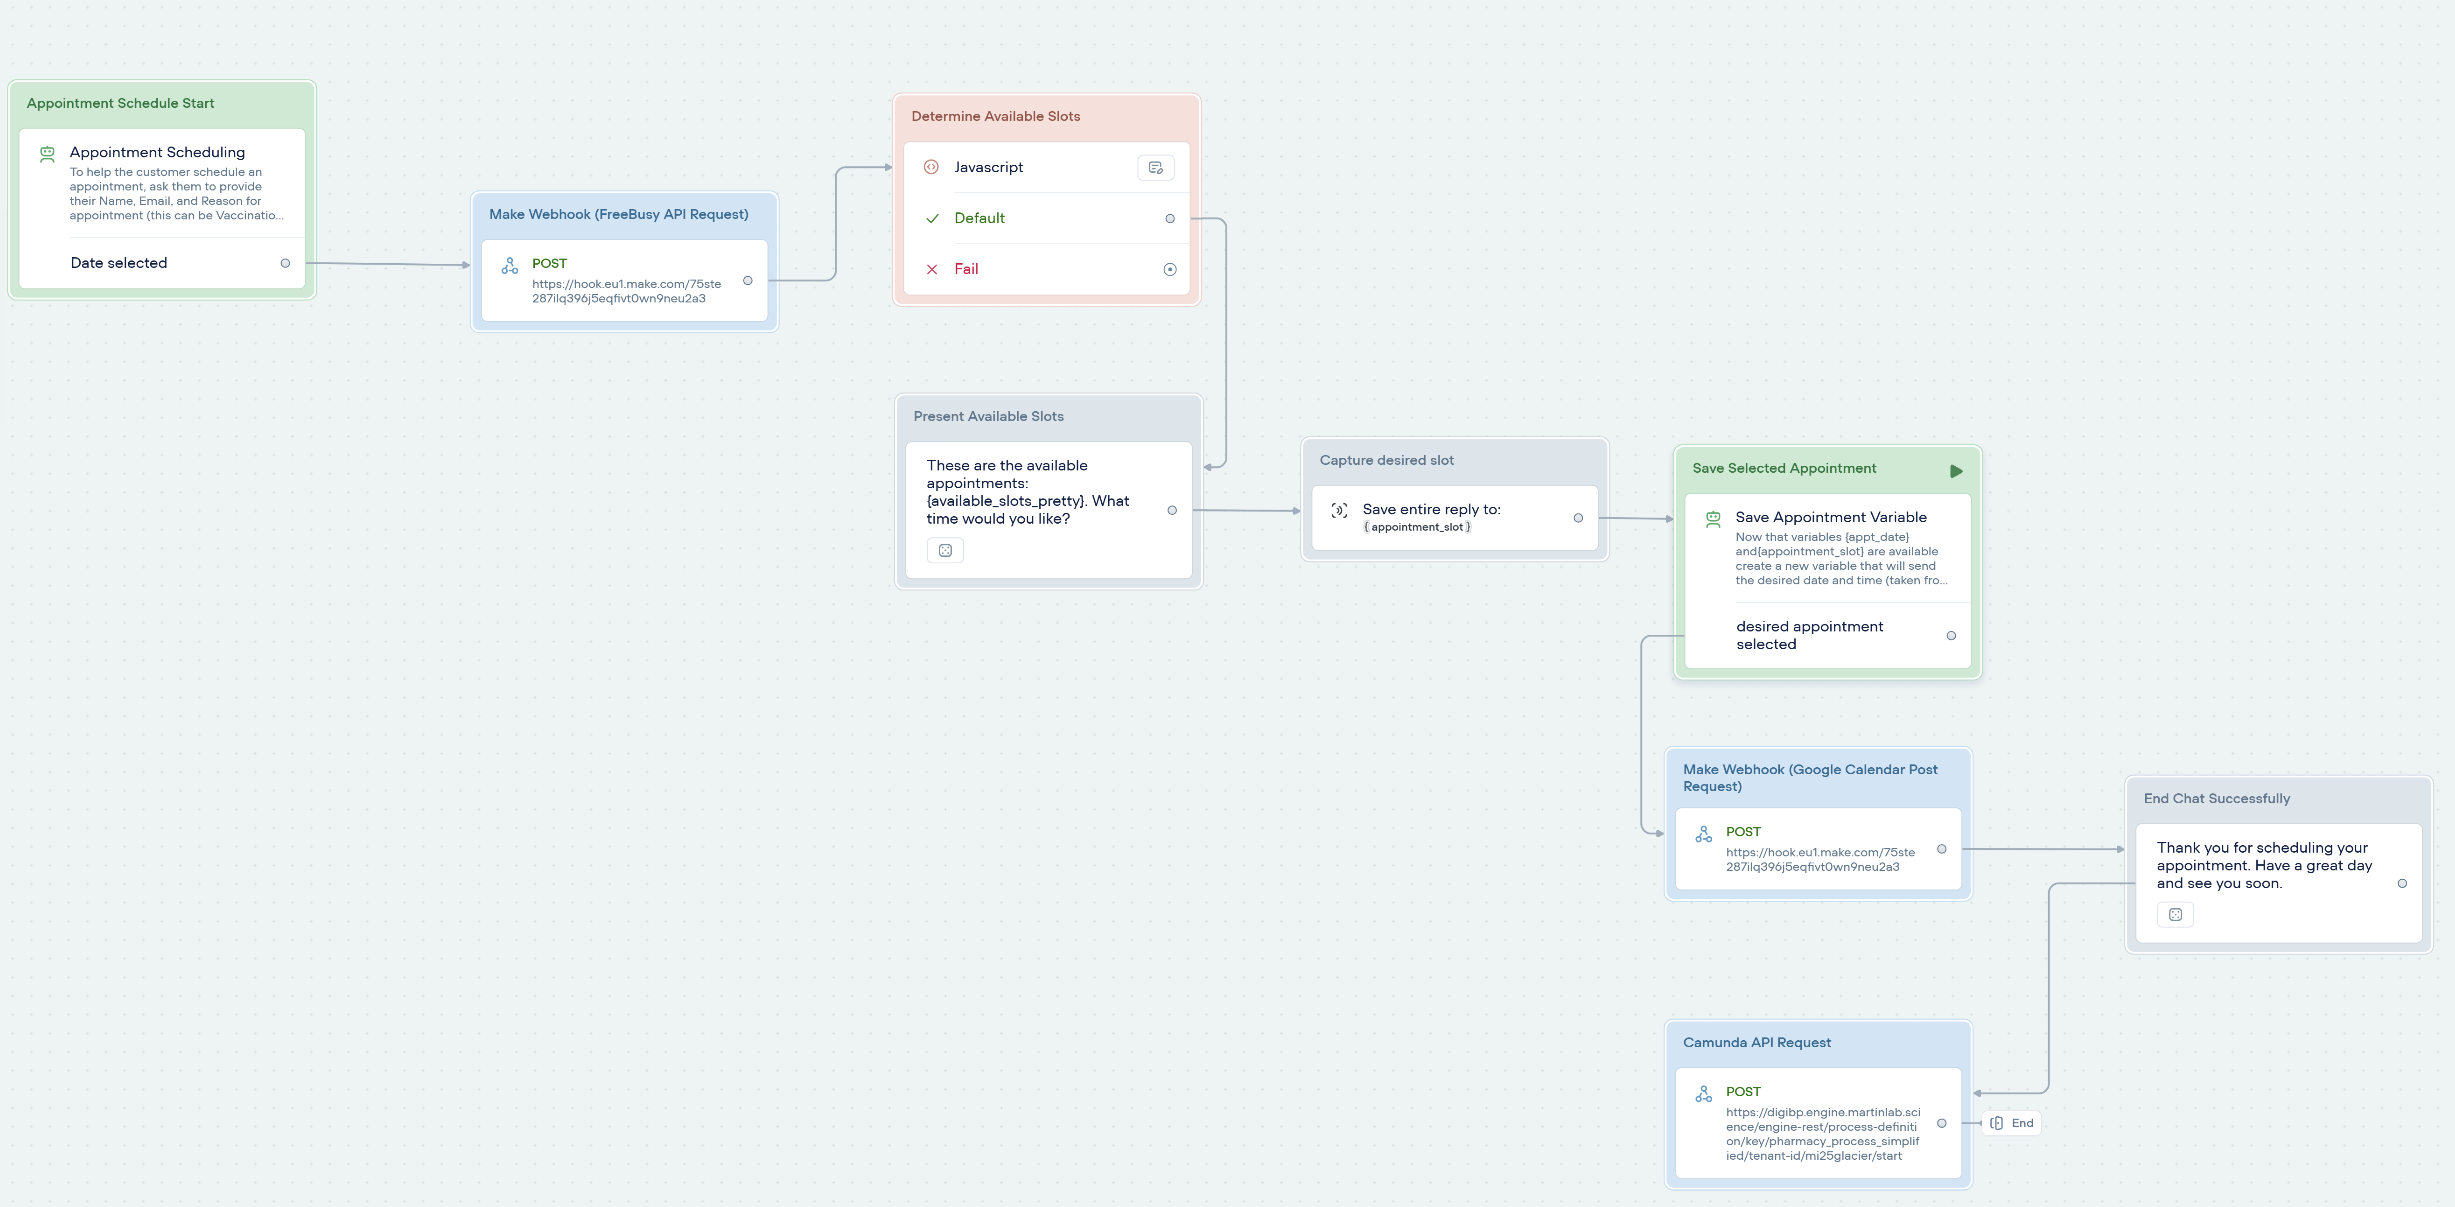
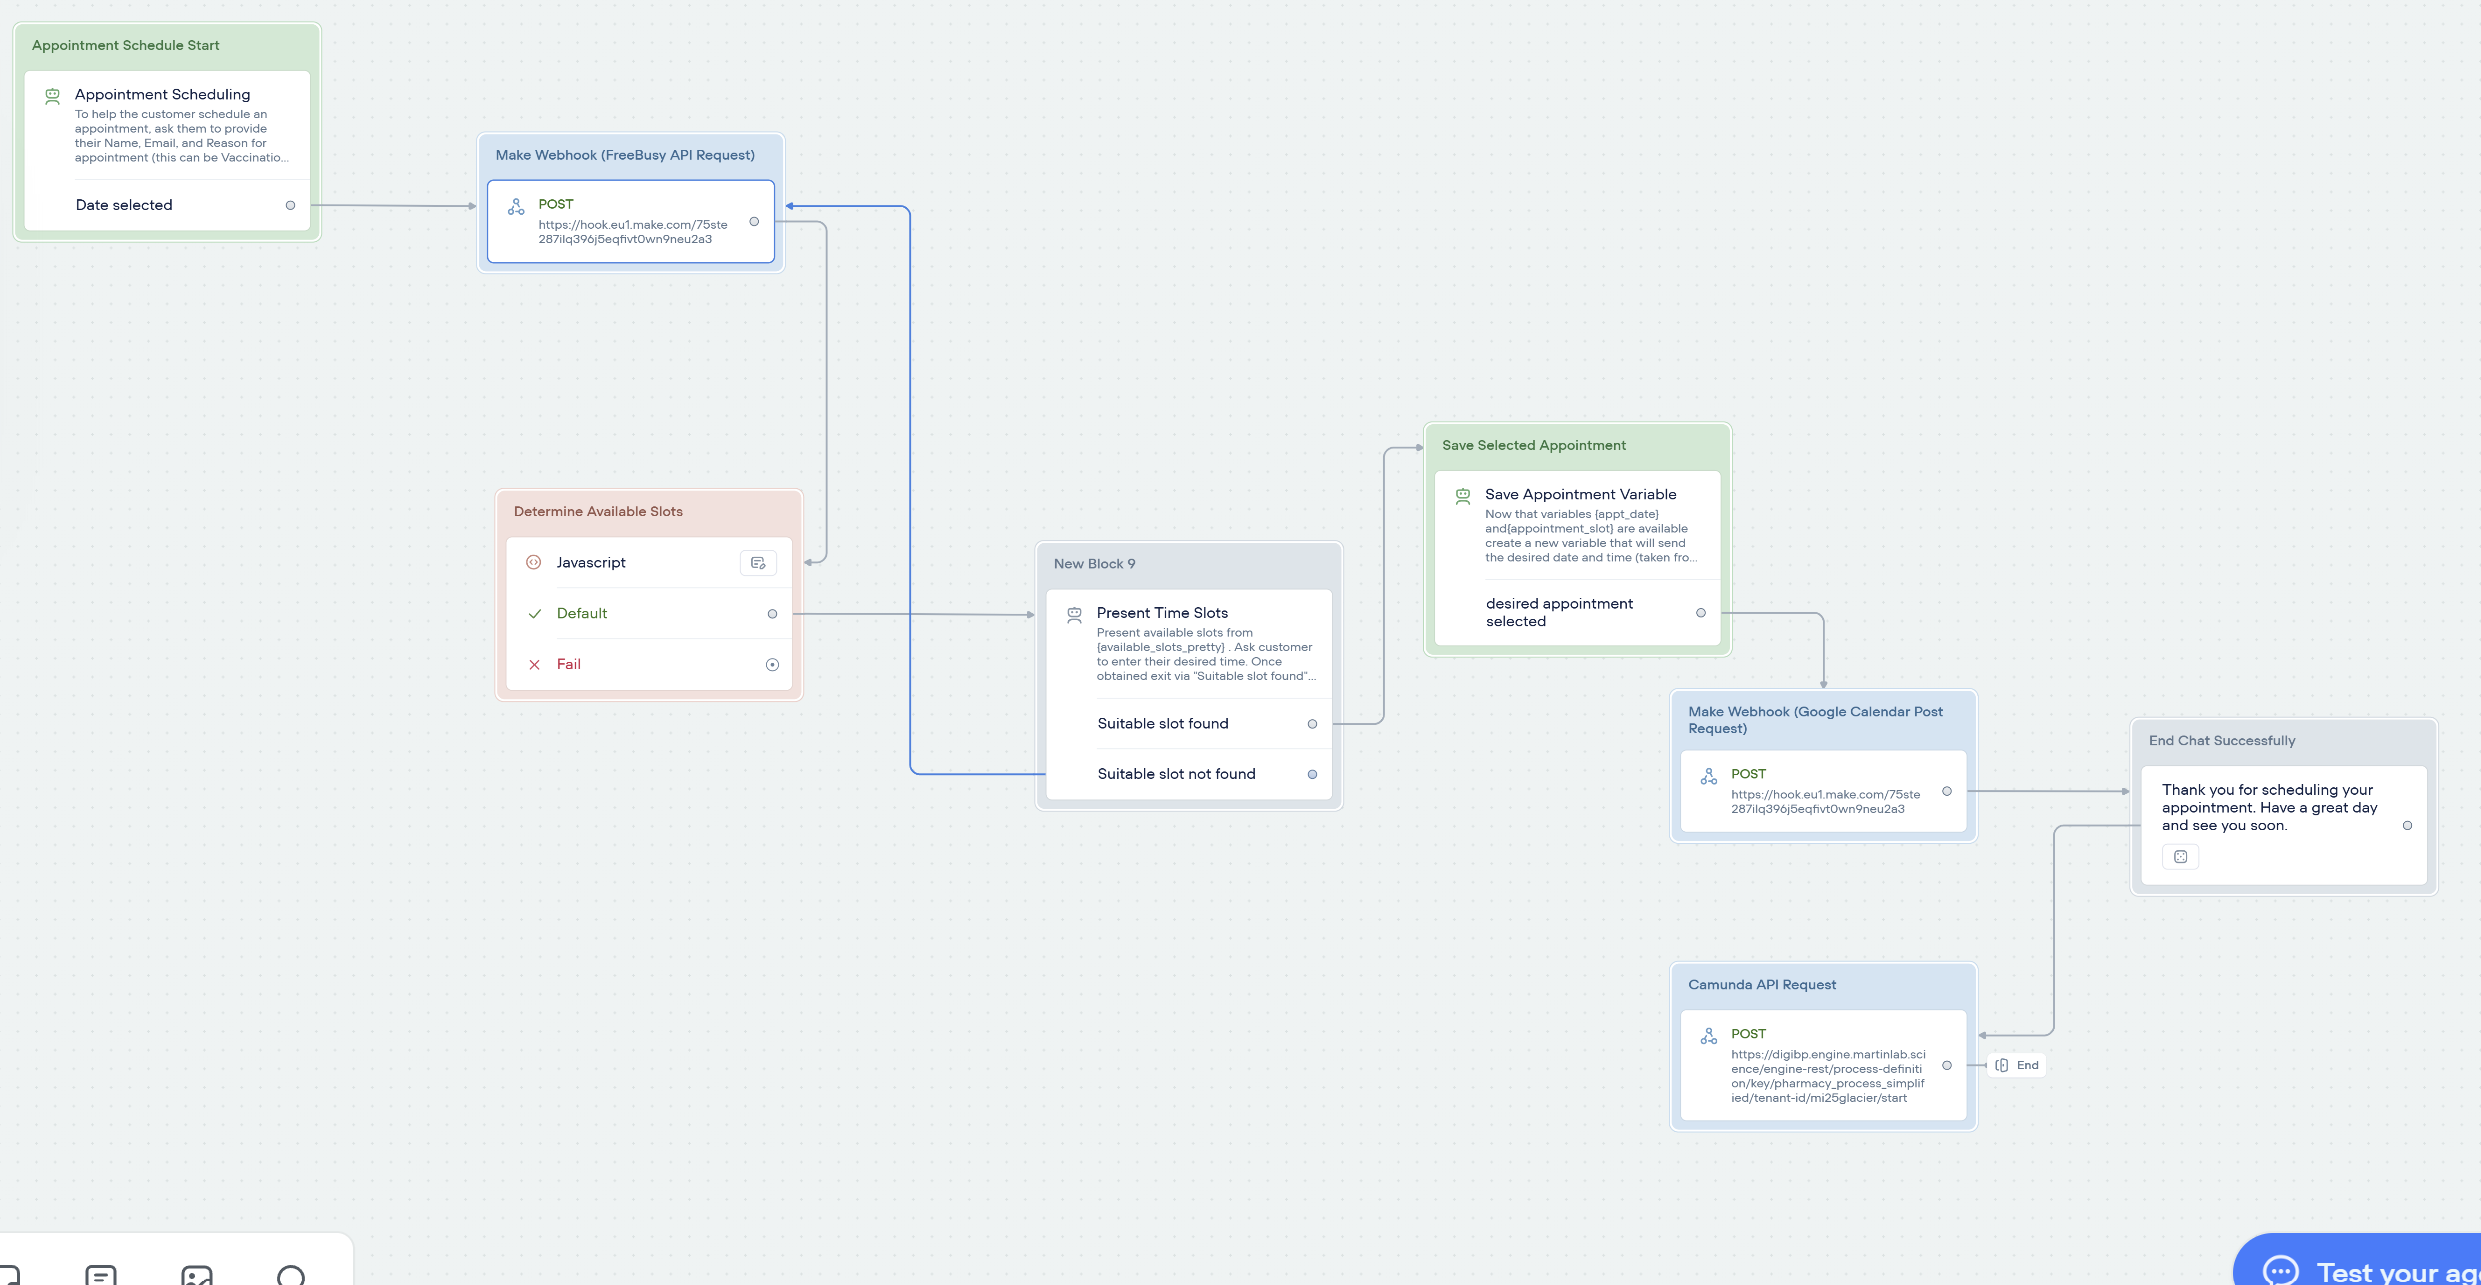
readMe update

diff --git a/README.md b/README.md
@@ -19,7 +19,7 @@
 
 ## Usage
 
-Need to add usage instructions here
+** Need to add usage instructions here (e.g., start server, link to chatbot frontend page, camunda)
 
 ## Techonologies
 - Voiceflow
@@ -75,11 +75,34 @@ The technician administers the vaccination. Once the vaccination is provided, th
 The technician performs the requested screening service. After the completion of the screening, the process ends.   
 
 ## To-Be Process
-**** Add the image of the holistic to-be process (needs updating). Explain that it is for visual purposes and is not executable. Maybe move the descriptions below to the chatbot section further down.
+End-to-End Process View:
 
-### Patient/Chatbot  
+![to-be process end-to-end](images/documentation_process_model.png)
 
-The process starts when a patient initiates a chatbot interaction. The chatbot then routes the conversation based on the consultation type into one of three flows: prescription order, symptom evaluation, or appointment scheduling.  
+**** Explain that bpmn process model above is not the executable workflow model implemented in Camunda. It is for visual purposes to highlight the entire process which spans multiple systems (not all of which are require connection to Camunda). Maybe add short description for each of the sequence flows.
+
+### Camunda Workflow
+
+![to-be process](images/symptom_eval_process_simplified_v2.png)
+
+The Camunda workflow starts when the Pharmacy Digital System (Camunda) receives the request from the patient from the chatbot. Based on the request type, the process continues with one of three flows: Prescription medication ordering, OTC order, or appointment scheduling.
+
+#### Prescription medication ordering   
+A prescription uploaded by the patient via the chatbot is validated by the pharmacist. If the prescription is rejected, the patient is notified by the Pharmacy Digital System and the process ends. If it is approved, the pharmacy technician prepares the medication. Once preparation is complete, the patient is notified that the medication is ready for pickup. The pharmacist then provides patient counselling. After payment is collected or insurance information is confirmed, the medication is dispensed and the process ends.
+
+#### OTC order  
+The patient requests over-the-counter (OTC) medication via the chatbot. The pharmacy technician confirms the OTC order and prepares the medication. When preparation is complete, the patient is notified that the medication is ready for pickup. The pharmacist provides patient counselling. After payment is collected or insurance information is confirmed, the medication is dispensed and the process ends.
+
+#### Appointment scheduling  
+The patient requests an appointment via the chatbot. The pharmacy technician confirms the appointment and the service is performed. Afterwards, payment is collected or insurance information is confirmed, and the process ends.
+
+### ChatBot
+
+![Chatbot process](images/chatbot_process2.png)
+
+#### Conversation Start 
+
+The process starts when a patient initiates a chatbot interaction. The chatbot then routes the conversation based on the request type into one of three flows: prescription order, symptom evaluation, or appointment scheduling.  
 
 #### Prescription order
 
@@ -93,32 +116,13 @@ The chatbot asks the patient for a symptom description and then assesses treatme
 
 The chatbot collects the patient/appointment details and then asks for the desired date. The system then checks available appointments (via Make Webhook + Google FreeBusy API). If a suitable appointment is found, the system books the selected appointment slot (via Make Webhook + Google Calendar API) and then sends a POST request to Camunda. If no suitable appointment slot can be found, the patient is asked to enter another date/time for the appointment.
 
-### Pharmacy/Camunda  
-
-![to-be process](images/symptom_eval_process_simplified_v2.png)
-
-The process starts when the Pharmacy Digital System receives the request from the patient via the chatbot. Based on the consultation type, the process continues with one of three flows: Prescription medication ordering, OTC order, or appointment scheduling.
-
-#### Prescription medication ordering   
-A prescription uploaded by the patient via the chatbot is validated by the pharmacist. If the prescription is rejected, the patient is notified by the Pharmacy Digital System and the process ends. If it is approved, the pharmacy technician prepares the medication. Once preparation is complete, the patient is notified that the medication is ready for pickup. The pharmacist then provides patient counselling. After payment is collected or insurance information is confirmed, the medication is dispensed and the process ends.
-
-#### OTC order  
-The patient requests over-the-counter (OTC) medication via the chatbot. The pharmacy technician confirms the OTC order and prepares the medication. When preparation is complete, the patient is notified that the medication is ready for pickup. The pharmacist provides patient counselling. After payment is collected or insurance information is confirmed, the medication is dispensed and the process ends.
-
-#### Appointment scheduling  
-The patient requests an appointment via the chatbot. The pharmacy technician confirms the appointment and the service is performed. Afterwards, payment is collected or insurance information is confirmed, and the process ends.
-
-## ChatBot
-
-![Chatbot process](images/chatbot_process2.png)
-
 ### Knowledge Base (KB)
 <p align="center">
   <img src="images/medication_codes.jpg" width="auto%" height="500px"/>
   <img src="images/MedicationKB-1.jpg" width="auto" height="500px"/>
 </p>
 
-#### Objective
+#### KB Purpose
 The medication KB serves as structured reference that enables the chatbot to provide safe, consistent, and context-aware medication guidance. It contains information on a predefined list of medications, including medication names, unique medication codes (for database identification), indications, dosing guidelines, side effects, contraindictions, red flags, and approved alternatives. 
 
 By using the KB, the chatbot can: 
@@ -130,20 +134,38 @@ By using the KB, the chatbot can:
 
 ![voiceflow appointment](images/voiceflow_appointment.png)
 
-Need to enter a description
+- Chatbot Agent asks patient for their information: name, email, reason for appointment (can select from Vaccination, Consultation, or Health Screening).
+- API request is sent to Make webhook to obtain list of booked appointments
+- Javascript code block determines the available appointments based on working hours, appointment intervals (30 min per appointment), and the list of booked appointments. 
+- List of available appointments is presented to the customer
+- Customer selects a date or asks for a different date
+- Selected appiontment slot is saved to Google Calendar with Make Webhook
+- Chat ends and appointment details are sent to Camunda via API request
 
 ### Symptom Evaluation and OTC order
 
 ![symptom evaluation](images/voiceflow_symptom_eval.png)
-Need to enter a description
 
-### Prompt
+#### Symptom Evaluation Agent Prompt
 Using the available KB and a web search, the agent will either recommend self-treatment using OTC medication or a medical evaluation by a medical professional. The following prompt was used to help the agent make the triage decision: [Symptom Evaluation Prompt (PDF)](supplementarydocs/symptomevalprompt.pdf)
+
+- Agents ask customer to describe symptoms
+- Based on description a triage decision is made
+- If self=treatment is made, Inventory API is called to check if available and place purchase order in case stock is below minimum level
+- Agent provides information about the medication (safety, usage, etc.) and then requests customer information (name, email, dob, etc.) to place the order. Once obtained the order is submitted.
+- Post request sent to Camunda with order details
+- Chat ends
 
 ### Prescription Medication Order
 
 ![prescription order](images/voiceflow_prescription.png)
-Need to enter a description
+
+- Chatbot prompts customer to upload prescription using provided tool
+- Uploaded document is sent to OCR.space via API Request which extracts the prescription details using Optical Character Recognition
+- Information is sent back to Voiceflow and the user confirms it is correct
+- API Request is sent to database to check inventory (and place purchase order if necessary)
+- Agent block provides relevant information about the medication and asks user to provide their email to process the order
+- API Request sends order information to Camunda and process finishes
 
 ## Camunda Workflow
 Need to insert camunda workflow images for forms, variables received from voiceflow
@@ -152,17 +174,35 @@ Need to insert camunda workflow images for forms, variables received from voicef
 ### Purchase Order
 ![purchase order webhook](images/purchase_order_webhook.png)
 
-needs explanation
+** Ask Houssem for explanation. He implemented this part and I'm not sure exactly what Groq and SendGrid are doing. 
 
 ### Appointment Scheduling
 
 ![appointment scheduling](images/appointment_webhook.png)
+**Voiceflow sends api request to webhook. Routed based on the the required "action" (either get slots or book slot). 
+
+Get Slots Route (when "action" = get slots): 
+- Google calendar FreeBusy API is called and returns array with booked appointments
+- An Iterator is used to convert the result array into a series of bundles
+- JSON Aggregator combines the data bundles from the Iterator Module into a single, structured JSON object with keys "Start" and "End" for eaech bundle
+- The webhook response send this JSON array back to Voiceflow
+
+Book Slots (when "action" = book slots):
+- Voiceflow passes appointment details to webhook (name, email, type, date/time) and Google Calendar API is called to create the appointment
+- If successful a summary is sent back the voiceflow in the webhook response
 
 need to add explanation
 
 ### Patient Email Notification
-Insert webhook image and explanation when available
 
-## Inventory Database
+**Insert webhook image and explanation when available. Houssem said he would implement this. Get description from him
+
+## Database
+
+** Take a look at the Supabase Database and describe it a bit. I think the relevant fields for the Inventor table are: medication_name, med_code, quantity_on_hand, retail_price? (ask Houssem), supplier_id. 
+
+There are two other tables "reorder_history" and "suppliers" but I'm not sure what is relevant there as those are used in the API Houssem created.
 
 ## API Overview
+
+** Ask Houssem for details about this. It's about his DeepNote API
